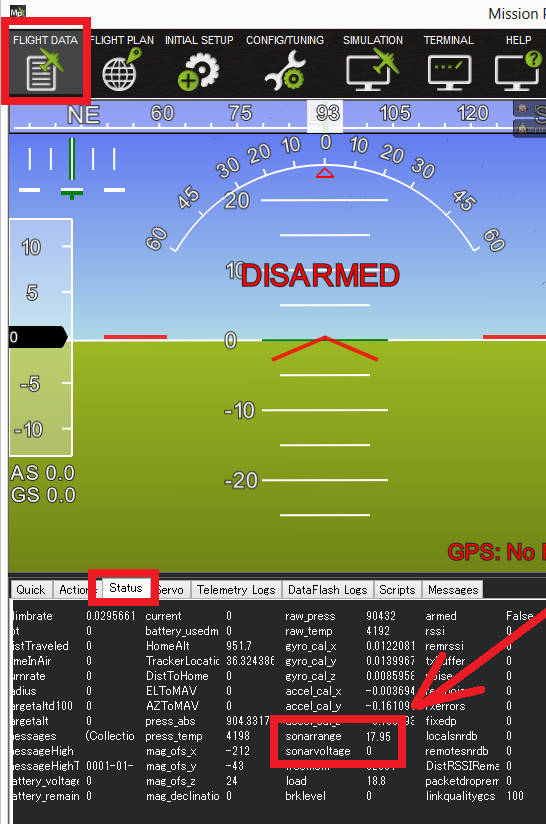
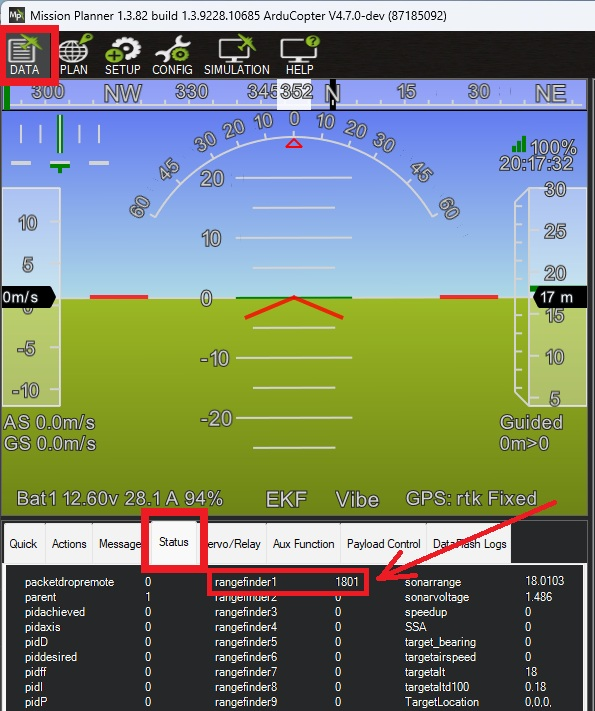
Common: update rangefinder testing image and replace sonarrange text

diff --git a/common/source/docs/common-vl53l0x-lidar.rst b/common/source/docs/common-vl53l0x-lidar.rst
@@ -42,7 +42,7 @@ Testing the sensor
 ==================
 
 Distances read by the sensor can be seen in the Mission Planner's Flight
-Data screen's Status tab. Look closely for "sonarrange".(The value of this image is not a real value.)
+Data screen's Status tab. Look closely for "rangefinder1".(The value of this image is not a real value.)
 
 .. image:: ../../../images/mp_rangefinder_lidarlite_testing.jpg
     :target: ../_images/mp_rangefinder_lidarlite_testing.jpg

diff --git a/common/source/docs/common-rangefinder-lidarlite.rst b/common/source/docs/common-rangefinder-lidarlite.rst
@@ -122,7 +122,7 @@ Testing the sensor
 ==================
 
 Distances read by the sensor can be seen in the Mission Planner's Flight
-Data screen's Status tab.  Look closely for "sonarrange".
+Data screen's Status tab.  Look closely for "rangefinder1".
 It's best to place the Lidar several known distances (1m, 3m, 5m) from
 a large flat wall to test it.  If the Lidar is constantly reading
 wrong by a fixed offset e.g. it's always 50cm out at each distance then

diff --git a/common/source/docs/common-teraranger-one-rangefinder.rst b/common/source/docs/common-teraranger-one-rangefinder.rst
@@ -112,7 +112,7 @@ Testing the sensor
 The distances read by the *TeraRanger EVO* sensor can be displayed on
 the *Mission Planner Flight Data* menu. The Status button the
 left will show status values. Then choose
-“sonarrange”.
+“rangefinder1”.
 
 .. figure:: ../../../images/TeraRangerOne_MissionPlannerEnableFlightData.jpg
    :target: ../_images/TeraRangerOne_MissionPlannerEnableFlightData.jpg

diff --git a/common/source/docs/common-lightware-sf10-lidar.rst b/common/source/docs/common-lightware-sf10-lidar.rst
@@ -140,7 +140,7 @@ Testing the sensor
 ==================
 
 Distances read by the sensor can be seen in the Mission Planner's Flight
-Data screen's Status tab. Look closely for "sonarrange".
+Data screen's Status tab. Look closely for "rangefinder1".
 
 .. image:: ../../../images/mp_rangefinder_lidarlite_testing.jpg
     :target: ../_images/mp_rangefinder_lidarlite_testing.jpg

diff --git a/common/source/docs/common-aerotenna-usd1.rst b/common/source/docs/common-aerotenna-usd1.rst
@@ -49,7 +49,7 @@ Testing the sensor
 ==================
 
 Distances read by the sensor can be seen in the Mission Planner's Flight
-Data screen's Status tab. Look closely for "sonarrange".
+Data screen's Status tab. Look closely for "rangefinder1".
 
 .. image:: ../../../images/mp_rangefinder_lidarlite_testing.jpg
     :target: ../_images/mp_rangefinder_lidarlite_testing.jpg

diff --git a/common/source/docs/common-ainstein-lrd1.rst b/common/source/docs/common-ainstein-lrd1.rst
@@ -38,7 +38,7 @@ Testing the sensor
 ==================
 
 Distances read by the sensor can be seen in the Mission Planner's Flight
-Data screen's Status tab. Look closely for "sonarrange".
+Data screen's Status tab. Look closely for "rangefinder1".
 
 .. image:: ../../../images/mp_rangefinder_lidarlite_testing.jpg
     :target: ../_images/mp_rangefinder_lidarlite_testing.jpg

diff --git a/common/source/docs/common-benewake-tf02-lidar.rst b/common/source/docs/common-benewake-tf02-lidar.rst
@@ -51,7 +51,7 @@ Testing the sensor
 ==================
 
 Distances read by the sensor can be seen in the Mission Planner's Flight
-Data screen's Status tab. Look closely for "sonarrange".
+Data screen's Status tab. Look closely for "rangefinder1".
 
 .. image:: ../../../images/mp_rangefinder_lidarlite_testing.jpg
     :target: ../_images/mp_rangefinder_lidarlite_testing.jpg

diff --git a/common/source/docs/common-benewake-tfmini-lidar.rst b/common/source/docs/common-benewake-tfmini-lidar.rst
@@ -54,7 +54,7 @@ Testing the sensor
 ==================
 
 Distances read by the sensor can be seen in the Mission Planner's Flight
-Data screen's Status tab. Look closely for "sonarrange".
+Data screen's Status tab. Look closely for "rangefinder1".
 
 .. image:: ../../../images/mp_rangefinder_lidarlite_testing.jpg
     :target: ../_images/mp_rangefinder_lidarlite_testing.jpg

diff --git a/common/source/docs/common-bluerobotics-ping.rst b/common/source/docs/common-bluerobotics-ping.rst
@@ -51,7 +51,7 @@ Testing the sensor
 ==================
 
 Distances read by the sensor can be seen in the Mission Planner's Flight
-Data screen's Status tab. Look closely for "sonarrange".
+Data screen's Status tab. Look closely for "rangefinder1".
 
 .. image:: ../../../images/mp_rangefinder_lidarlite_testing.jpg
     :target: ../_images/mp_rangefinder_lidarlite_testing.jpg

diff --git a/common/source/docs/common-echologger-ect400.rst b/common/source/docs/common-echologger-ect400.rst
@@ -72,7 +72,7 @@ Testing the sensor
 ==================
 
 Distances read by the sensor can be seen in the Mission Planner's Flight
-Data screen's Status tab. Look closely for "sonarrange".
+Data screen's Status tab. Look closely for "rangefinder1".
 
 .. image:: ../../../images/mp_rangefinder_lidarlite_testing.jpg
     :target: ../_images/mp_rangefinder_lidarlite_testing.jpg

diff --git a/common/source/docs/common-hondex-sonar.rst b/common/source/docs/common-hondex-sonar.rst
@@ -43,7 +43,7 @@ Testing the sensor
 ==================
 
 Distances read by the sensor can be seen in the Mission Planner's Flight
-Data screen's Status tab. Look closely for "sonarrange".
+Data screen's Status tab. Look closely for "rangefinder1".
 
 .. image:: ../../../images/mp_rangefinder_lidarlite_testing.jpg
     :target: ../_images/mp_rangefinder_lidarlite_testing.jpg

diff --git a/common/source/docs/common-kogger-sonar.rst b/common/source/docs/common-kogger-sonar.rst
@@ -70,7 +70,7 @@ Testing the sensor
 ==================
 
 Distances read by the sensor can be seen in the Mission Planner's Flight
-Data screen's Status tab. Look closely for "sonarrange".
+Data screen's Status tab. Look closely for "rangefinder1".
 
 .. image:: ../../../images/mp_rangefinder_lidarlite_testing.jpg
     :target: ../_images/mp_rangefinder_lidarlite_testing.jpg
